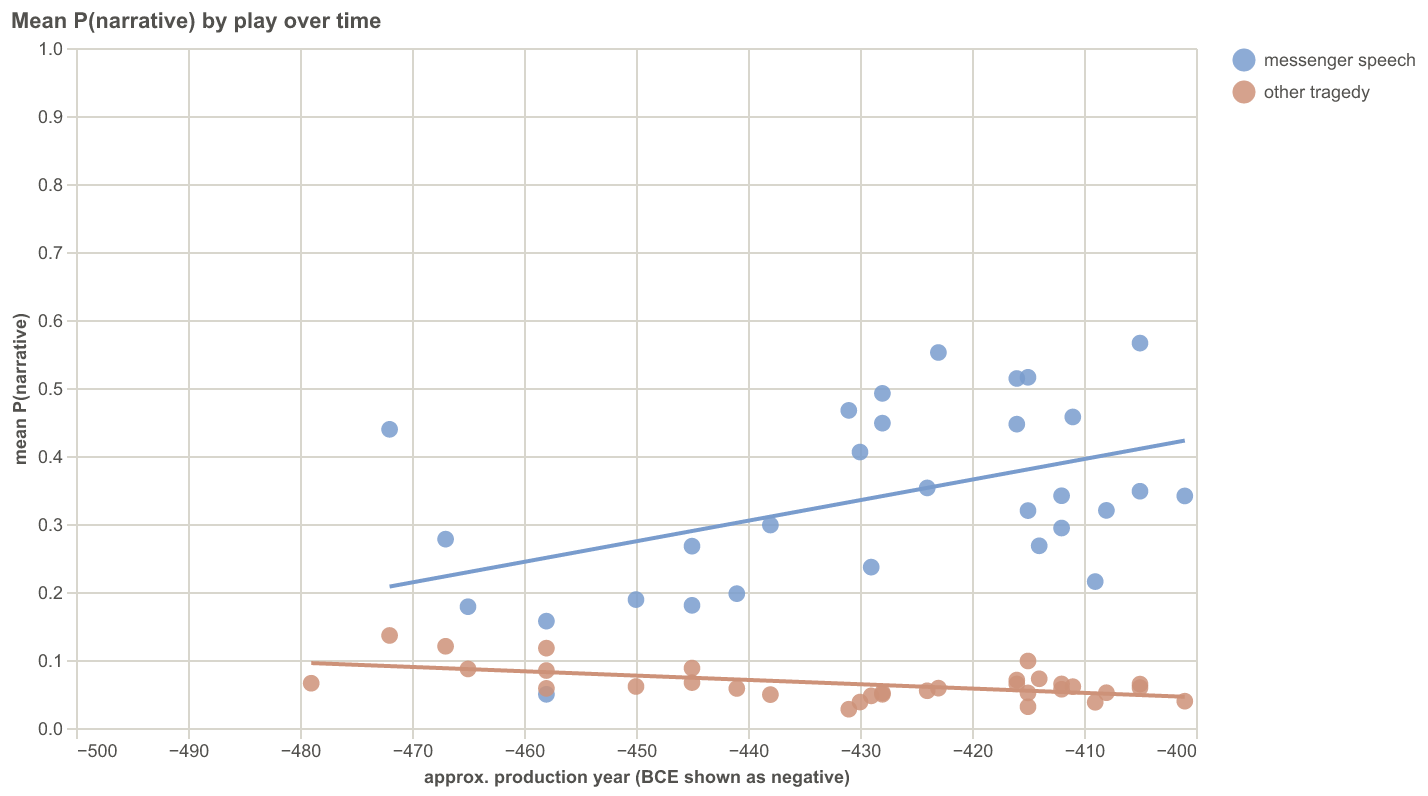
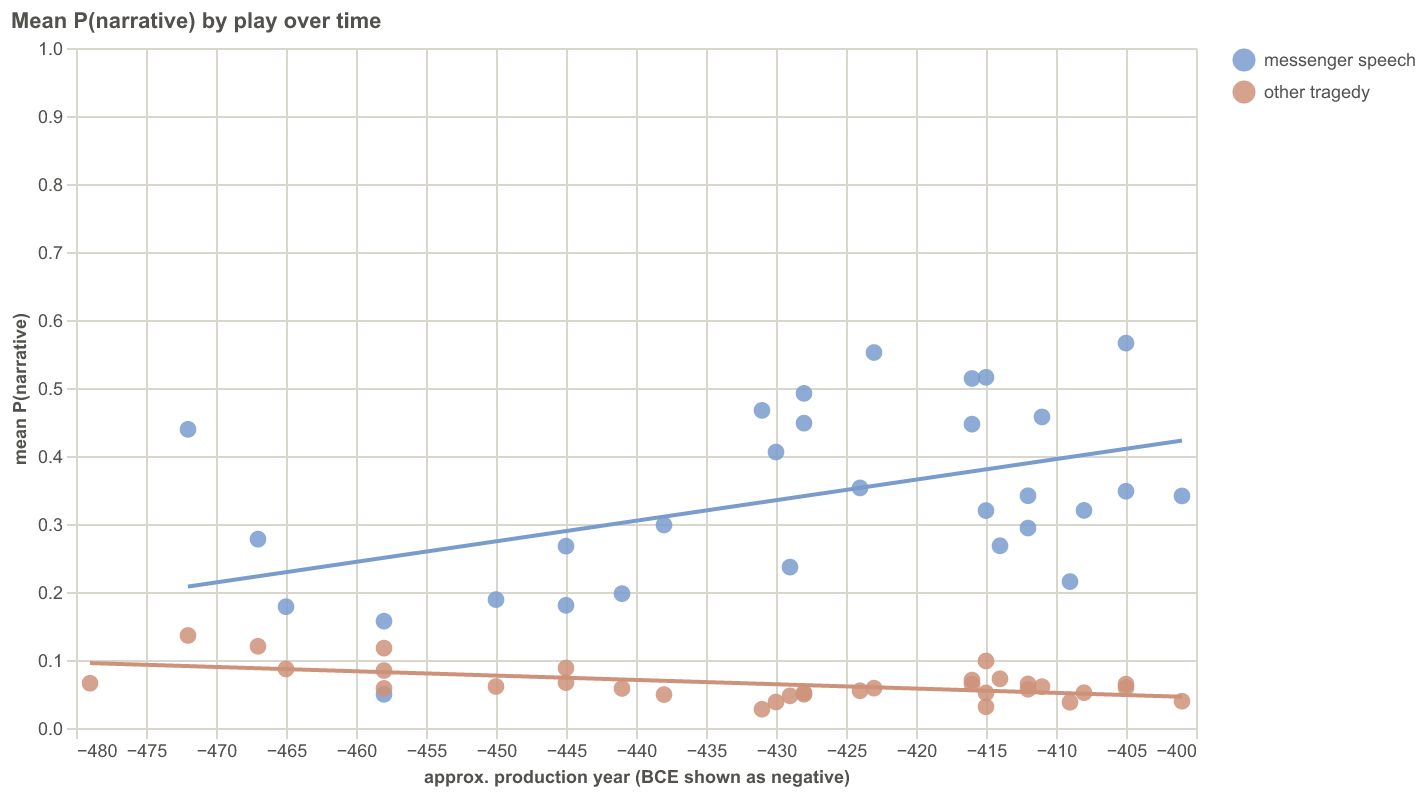
Add additional plots

diff --git a/scripts/ALL_DRAMA_plot_messenger_narrativity.py b/scripts/ALL_DRAMA_plot_messenger_narrativity.py
@@ -3,13 +3,12 @@ from pathlib import Path
 import altair as alt
 import matplotlib.pyplot as plt
 import pandas as pd
-from scipy.stats import linregress, mannwhitneyu
-
 from ALL_DRAMA_compare_messenger_speeches import (
     build_sentence_table,
     load_messenger_speeches,
     urn_to_stem,
 )
+from scipy.stats import linregress, mannwhitneyu
 
 ROOT_DIR = Path(__file__).parent.parent
 RESULTS_CSV = ROOT_DIR / "csv" / "ALL_DRAMA_messenger_speech_narrativity.csv"
@@ -164,8 +163,8 @@ def plot_line_position(df: pd.DataFrame, plays: list[dict]) -> None:
             bbox_to_anchor=(1.18, 1.0),
         )
 
-        out_path = FIG_DIR / f"ALL_DRAMA_line_position_{play}.png"
-        fig.savefig(out_path, dpi=200, bbox_inches="tight")
+        out_path = FIG_DIR / f"ALL_DRAMA_line_position_{play}_7-SENTENCE_WINDOW.png"
+        fig.savefig(out_path, dpi=300, bbox_inches="tight")
         plt.close(fig)
         print(f"Wrote {out_path}")
 
@@ -226,7 +225,7 @@ def plot_distribution(df: pd.DataFrame) -> None:
     ax.text(
         0.5,
         1.0,
-        f"diamond = mean; Mann-Whitney p = {mw_p:.2g}",
+        f"Mann-Whitney p = {mw_p:.2g}",
         transform=ax.transAxes,
         ha="center",
         va="bottom",
@@ -234,7 +233,7 @@ def plot_distribution(df: pd.DataFrame) -> None:
         color=COLOR_TEXT,
     )
     ax.set_title(
-        "P(narrative): messenger-speech vs. other tragedy sentences",
+        "Messengers vs. other speakers in tragedy",
         fontsize=10.5,
         color=COLOR_TEXT,
         pad=14,
@@ -242,7 +241,7 @@ def plot_distribution(df: pd.DataFrame) -> None:
 
     FIG_DIR.mkdir(exist_ok=True, parents=True)
     out_path = FIG_DIR / "ALL_DRAMA_distribution.png"
-    fig.savefig(out_path, dpi=200, bbox_inches="tight")
+    fig.savefig(out_path, dpi=300, bbox_inches="tight")
     print(f"Wrote {out_path}")
 
 
@@ -275,7 +274,7 @@ def plot_change_over_time(df: pd.DataFrame, plays: list[dict]) -> None:
             x=alt.X(
                 "year:Q",
                 title="approx. production year (BCE shown as negative)",
-                scale=alt.Scale(domain=[-500, -400]),
+                scale=alt.Scale(domain=[-480, -400]),
             ),
             y=alt.Y(
                 "p_narrative:Q",
